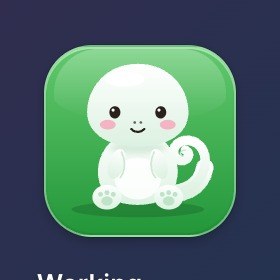
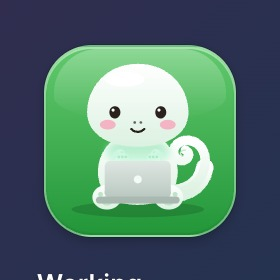
Spec 016: the gecko types at a little laptop, and waits impatiently
Working, it sits at a tiny laptop low in front of it, paws on the keys in turn, nodding and now and then glancing at the screen. Waiting, now and then a slow blink and a burst of foot taps with a small sway, so it says it waits for you without moving all the time.

Changed region(s): [[0.3429, 0.5143, 0.6571, 0.7429]]

diff --git a/client/src/renderer/src/gecko/Gecko.tsx b/client/src/renderer/src/gecko/Gecko.tsx
@@ -42,6 +42,16 @@ function Sole({ x, y }: { readonly x: number; readonly y: number }): React.JSX.E
   )
 }
 
+/** A paw on the laptop's keys, seen over the lid while it types. */
+function Typing({ x, skin }: { readonly x: number; readonly skin: string }): React.JSX.Element {
+  return (
+    <g className="gk-typing">
+      <circle cx={x} cy="64.4" r="3.1" fill="#fff" />
+      {[-1.6, 0, 1.6].map((dx) => <circle key={dx} cx={x + dx} cy="63.2" r="0.6" fill={PAD} />)}
+    </g>
+  )
+}
+
 /** The gecko in the soft, flat style of its reference: white with a mint tint, no outlines, dot eyes, pink blush. Sitting for working, waiting and review; lying on its belly asleep. Each part moves on its own. */
 function Drawing(): React.JSX.Element {
   const id = useId().replace(/[^\w-]/g, '')
@@ -54,6 +64,10 @@ function Drawing(): React.JSX.Element {
         <linearGradient id={`${id}-skin`} x1="0" y1="0" x2="0" y2="1">
           <stop offset="0" stopColor="#ffffff" />
           <stop offset="1" stopColor="#dcf1e1" />
+        </linearGradient>
+        <linearGradient id={`${id}-lid`} x1="0" y1="0" x2="0" y2="1">
+          <stop offset="0" stopColor="#dfe7e3" />
+          <stop offset="1" stopColor="#b9c7c0" />
         </linearGradient>
         <filter id={`${id}-soft`} x="-30%" y="-30%" width="160%" height="160%">
           <feGaussianBlur stdDeviation="1.4" />
@@ -77,16 +91,26 @@ function Drawing(): React.JSX.Element {
                   <g>
                     <ellipse cx="36" cy="81.5" rx="6.6" ry="5.6" fill={skin} />
                     <Sole x={36} y={82} />
-                    <ellipse cx="64" cy="81.5" rx="6.6" ry="5.6" fill={skin} />
-                    <Sole x={64} y={82} />
+                    <g className="gk-heel">
+                      <ellipse cx="64" cy="81.5" rx="6.6" ry="5.6" fill={skin} />
+                      <Sole x={64} y={82} />
+                    </g>
                   </g>
                   <g className="gk-foot gk-foot-l">
                     <ellipse cx="40.4" cy="66.4" rx="3.6" ry="7" fill={skin} transform="rotate(18 40.4 66.4)" />
                     <path d="M42.6 61 C 44.6 65, 44.4 70, 42 72.6" fill="none" stroke="#cfe8d5" strokeWidth="0.8" strokeLinecap="round" />
+                    <Typing x={43} skin={skin} />
                   </g>
                   <g className="gk-foot gk-foot-r">
                     <ellipse cx="59.6" cy="66.4" rx="3.6" ry="7" fill={skin} transform="rotate(-18 59.6 66.4)" />
                     <path d="M57.4 61 C 55.4 65, 55.6 70, 58 72.6" fill="none" stroke="#cfe8d5" strokeWidth="0.8" strokeLinecap="round" />
+                    <Typing x={57} skin={skin} />
+                  </g>
+                  <g className="gk-laptop">
+                    <ellipse cx="50" cy="61" rx="15" ry="6" fill="#9ff0c4" opacity="0.5" filter={soft} />
+                    <rect x="35" y="65" width="30" height="17" rx="2.6" fill={`url(#${id}-lid)`} />
+                    <circle cx="50" cy="73.4" r="1.8" fill="#f2fbf4" />
+                    <rect x="31" y="81.2" width="38" height="3.2" rx="1.6" fill="#a9b8b0" />
                   </g>
                   <g className="gk-head-pose">
                     <g className="gk-head-look">
@@ -148,6 +172,7 @@ export function GeckoPanel({
   moving = true,
   blinking = false,
   tilting = false,
+  tapping = false,
   hovering = false,
   pressing = false,
   look = { x: 0, y: 0 },
@@ -158,6 +183,8 @@ export function GeckoPanel({
   readonly moving?: boolean
   readonly blinking?: boolean
   readonly tilting?: boolean
+  /** Waiting: a burst of impatient taps of one foot. */
+  readonly tapping?: boolean
   readonly hovering?: boolean
   readonly pressing?: boolean
   readonly look?: Look
@@ -171,6 +198,7 @@ export function GeckoPanel({
     moving ? '' : 'gecko-still',
     blinking ? 'gecko-blink' : '',
     tilting ? 'gecko-tilt' : '',
+    tapping ? 'gecko-tapping' : '',
     hovering ? 'gecko-hover' : '',
     pressing ? 'gecko-press' : '',
   ].filter((one) => one !== '')
@@ -205,10 +233,11 @@ function useSeen(): boolean {
   return seen
 }
 
-/** A blink now and then while its eyes are open, sometimes with a tilt of the head: one short timer at a time, none while asleep or not seen. */
-function useFidget(awake: boolean): { readonly blinking: boolean; readonly tilting: boolean } {
+/** A blink now and then while its eyes are open, sometimes with a tilt of the head; waiting, a slow blink and now and then a burst of impatient foot taps. One short timer at a time, none while asleep or not seen. */
+function useFidget(awake: boolean, waiting: boolean): { readonly blinking: boolean; readonly tilting: boolean; readonly tapping: boolean } {
   const [blinking, setBlinking] = useState(false)
   const [tilting, setTilting] = useState(false)
+  const [tapping, setTapping] = useState(false)
   useEffect(() => {
     if (!awake) return
     let timer: ReturnType<typeof setTimeout>
@@ -216,16 +245,19 @@ function useFidget(awake: boolean): { readonly blinking: boolean; readonly tilti
       timer = setTimeout(
         () => {
           if (still()) return next()
-          const tilt = Math.random() < 0.35
+          const tilt = !waiting && Math.random() < 0.35
+          const tap = waiting && Math.random() < 0.6
           setBlinking(true)
           setTilting(tilt)
+          setTapping(tap)
           timer = setTimeout(() => {
             setBlinking(false)
             timer = setTimeout(() => {
               setTilting(false)
+              setTapping(false)
               next()
-            }, tilt ? 900 : 0)
-          }, 160)
+            }, tap ? 1000 : tilt ? 900 : 0)
+          }, waiting ? 420 : 160)
         },
         2500 + Math.random() * 4000,
       )
@@ -235,9 +267,10 @@ function useFidget(awake: boolean): { readonly blinking: boolean; readonly tilti
       clearTimeout(timer)
       setBlinking(false)
       setTilting(false)
+      setTapping(false)
     }
-  }, [awake])
-  return { blinking, tilting }
+  }, [awake, waiting])
+  return { blinking, tilting, tapping }
 }
 
 /** Where the cursor is from the gecko's eyes, as a look: the direction, weaker when it is close. */
@@ -258,7 +291,7 @@ export function Gecko(): React.JSX.Element | null {
   const [pressing, setPressing] = useState(false)
   const [look, setLook] = useState<Look>({ x: 0, y: 0 })
   const seen = useSeen()
-  const { blinking, tilting } = useFidget(seen && view !== undefined && view.pose !== 'asleep')
+  const { blinking, tilting, tapping } = useFidget(seen && view !== undefined && view.pose !== 'asleep', view?.pose === 'waiting')
   const held = useRef<{ x: number; y: number; left: number; top: number; moved: boolean } | undefined>(undefined)
 
   useEffect(() => {
@@ -335,6 +368,7 @@ export function Gecko(): React.JSX.Element | null {
         moving={seen}
         blinking={blinking}
         tilting={tilting}
+        tapping={tapping}
         hovering={hovering}
         pressing={pressing}
         look={look}

diff --git a/client/src/renderer/src/styles.css b/client/src/renderer/src/styles.css
@@ -12414,7 +12414,27 @@ button.manager-step-head:hover > svg {
   animation: gk-peek-shut 1.8s ease-in-out;
 }
 
-/* Working: sitting, its front paws tapping in turn as if typing, nodding to the beat, the tail swaying behind. */
+/* Working: at a little laptop in front of it, its paws on the keys in turn, nodding to the beat, now and then glancing down at the screen, the tail swaying behind. */
+.gk-laptop,
+.gk-typing {
+  opacity: 0;
+  transition: opacity 300ms;
+}
+
+.gecko-working .gk-laptop,
+.gecko-working .gk-typing {
+  opacity: 1;
+}
+
+.gecko-working.gecko-hop .gk-laptop,
+.gecko-working.gecko-hop .gk-typing {
+  opacity: 0;
+}
+
+.gecko-working .gk-head {
+  animation: gk-glance 4.8s ease-in-out infinite;
+}
+
 .gecko-working .gk-foot-l,
 .gecko-working .gk-foot-r {
   animation: gk-tap 560ms ease-in-out infinite;
@@ -12446,11 +12466,29 @@ button.manager-step-head:hover > svg {
 }
 
 .gecko-waiting .gk-bob {
-  animation: gk-bounce 1.4s var(--gk-spring) 3;
+  animation: gk-bounce 1.4s var(--gk-spring);
 }
 
-.gecko-waiting .gk-tail {
-  animation: gk-swing 1.4s ease-in-out 200ms 3;
+/* Now and then, impatient: one foot taps three times while it sways and the tail swings. */
+.gk-art .gk-heel {
+  transform-origin: 60px 86px;
+}
+
+.gecko-waiting.gecko-tapping .gk-heel {
+  animation: gk-heel 330ms ease-in-out 3;
+}
+
+.gecko-waiting.gecko-tapping .gk-sit {
+  animation: gk-sway 1s ease-in-out;
+}
+
+.gecko-waiting.gecko-tapping .gk-tail {
+  animation: gk-swing 1s ease-in-out 120ms;
+}
+
+/* Its blinks are slow while it waits. */
+.gecko-waiting .gk-art .gk-dot {
+  transition-duration: 220ms;
 }
 
 /* Review: a happy hop with its paws up and happy eyes, squashed on landing, the tail flicking. */
@@ -12570,6 +12608,42 @@ button.manager-step-head:hover > svg {
   }
   25% {
     transform: translateY(-2.5px) rotate(-8deg);
+  }
+}
+
+@keyframes gk-glance {
+  0%,
+  62%,
+  92%,
+  100% {
+    transform: none;
+  }
+  70%,
+  84% {
+    transform: translateY(1.6px) rotate(-3deg);
+  }
+}
+
+@keyframes gk-heel {
+  0%,
+  100% {
+    transform: none;
+  }
+  50% {
+    transform: rotate(-16deg);
+  }
+}
+
+@keyframes gk-sway {
+  0%,
+  100% {
+    transform: none;
+  }
+  30% {
+    transform: rotate(-2.5deg);
+  }
+  70% {
+    transform: rotate(2.5deg);
   }
 }
 

diff --git a/client/src/renderer/src/gecko-preview.tsx b/client/src/renderer/src/gecko-preview.tsx
@@ -71,6 +71,7 @@ function Live(): React.JSX.Element {
   const [at, setAt] = useState(0)
   const [hopping, setHopping] = useState(false)
   const [blinking, setBlinking] = useState(false)
+  const [tapping, setTapping] = useState(false)
   const [hovering, setHovering] = useState(false)
   const [pressing, setPressing] = useState(false)
   const [look, setLook] = useState({ x: 0, y: 0 })
@@ -82,7 +83,7 @@ function Live(): React.JSX.Element {
       setAt(now)
       setHopping(cycle[now] === 'review')
     }, 3500)
-    const blink = setInterval(() => { setBlinking(true); setTimeout(() => setBlinking(false), 160) }, 2300)
+    const blink = setInterval(() => { setBlinking(true); setTapping(true); setTimeout(() => setBlinking(false), 300); setTimeout(() => setTapping(false), 1200) }, 2300)
     const follow = (event: MouseEvent): void => {
       const box = held.current?.getBoundingClientRect()
       if (box === undefined) return
@@ -98,7 +99,7 @@ function Live(): React.JSX.Element {
   const state = cycle[at] ?? 'asleep'
   const pose = state === 'review' ? 'working' : state
   return <div ref={held} className="gecko-float gecko-live" onPointerEnter={() => setHovering(true)} onPointerLeave={() => setHovering(false)} onClick={() => { setPressing(true); setTimeout(() => setPressing(false), 170) }}>
-    <GeckoPanel pose={pose} count={state === 'waiting' ? 2 : 0} hopping={hopping} blinking={blinking && pose !== 'asleep'} hovering={hovering} pressing={pressing} look={look} onHopped={() => setHopping(false)} />
+    <GeckoPanel pose={pose} count={state === 'waiting' ? 2 : 0} hopping={hopping} blinking={blinking && pose !== 'asleep'} tapping={tapping && pose === 'waiting'} hovering={hovering} pressing={pressing} look={look} onHopped={() => setHopping(false)} />
   </div>
 }
 

diff --git a/docs/design/gecko.md b/docs/design/gecko.md
@@ -11,7 +11,7 @@ Alex chose **C, the glass tile**, on 2026-10-28, and later the same day moved th
 - **Placement.** Its own window: frameless, transparent, always on top (`floating` level), on every desktop (`setVisibleOnAllWorkspaces` without the full screen spaces, which would take GeckIt's Dock icon away), not in the Dock, the taskbar or the window switcher (`skipTaskbar`, `focusable: false`), never taking the keyboard, clicks accepted without activating (`acceptFirstMouse`). 108 px square: a 96 px tile plus room for its shadow. First at the top right of the main display, 24 px in; dragged, the position is kept in `geckoBounds` in settings. Switched off or with the screen locked there is no window at all.
 - **Tile, not glass.** The gecko sits on the app icon's green tile (`#62c96d` to `#23963a`, 24 px corners, a soft top shine, a light edge and a small shadow), drawn by the page the same on every system and in light and dark. The glass panel was tried with this drawing too and dropped: a white gecko on light glass nearly disappears in light mode and only reads on dark, while on the green tile it reads in both and is the reference's own look. macOS vibrancy is no longer used, since an opaque tile covers it.
 - **The gecko.** Drawn in `client/src/renderer/src/gecko/Gecko.tsx` as one SVG of parts, flat and soft as Mochi is: no outlines, white with a light mint tint (`#ffffff` to `#dcf1e1`), a big round head a little wider than tall with a highlight, two tiny nostril dots, small solid dark dot eyes set wide (`#2b211c`) with a white glint, pink oval blush (`#f6a8bc`), a tiny smile, a round body with a white belly, short front paws, back feet turned to the person with a big pad and three toe pads in darker mint (`#bfe3c8`), a tail ending in a spiral curl, a soft green shadow under it. Faint mint lines separate the paws from the body. The mouth has three shapes (smile, "o", happy), each eye three (the dot, the shut arc, the happy arc). Asleep it is a second drawing of the same gecko lying on its belly, chin on its front paws, cross-faded with the sitting one.
-- **Motion.** CSS keyframes and transitions on the parts' transforms and opacity only, each part turning about its own joint: springy easing (`cubic-bezier(0.34, 1.56, 0.64, 1)`), squash and stretch on the hop, the press and the bounce, the tail a beat behind. Working: the front paws tap in turn as if typing (560 ms), the head nods to the beat, the tail sways, without end. Asleep: lying down, eyes shut arcs; the back rises and falls eight times (4.2 s each) and the tail tip twitches four times, then still. Waiting: the head up and 3% larger, the "o" mouth, three bounces of 1.4 s; the orange count pops in. Review: a 0.9 s hop 6 units high with paws up, happy arc eyes and mouth, a squash on take-off and landing, the shadow shrinking under it, the tail flicking. Blinks every 2.5 to 6.5 s (the dots flatten), a third with an 8 degree head tilt. Hover: looks straight out and wiggles; asleep, one eye opens and shuts. Press: a 170 ms squash, then GeckIt comes forward.
+- **Motion.** CSS keyframes and transitions on the parts' transforms and opacity only, each part turning about its own joint: springy easing (`cubic-bezier(0.34, 1.56, 0.64, 1)`), squash and stretch on the hop, the press and the bounce, the tail a beat behind. Working: it sits at a tiny light grey laptop placed low in front of it, a mint glow from the screen on its chest, its paws on the keys over the lid tapping in turn (560 ms), the head nodding to the beat and every 4.8 s glancing down at the screen, the tail swaying, without end. Asleep: lying down, eyes shut arcs; the back rises and falls eight times (4.2 s each) and the tail tip twitches four times, then still. Waiting: the head up and 3% larger, the "o" mouth, one bounce as it sits up; the orange count pops in. Then, at the blink timer's moments (every 2.5 to 6.5 s), a slow blink and, six times in ten, a burst of impatience: one back foot taps three times while it sways and the tail swings, about a second, then it is still again. Review: a 0.9 s hop 6 units high with paws up, happy arc eyes and mouth, a squash on take-off and landing, the shadow shrinking under it, the tail flicking. Blinks every 2.5 to 6.5 s (the dots flatten), a third with an 8 degree head tilt. Hover: looks straight out and wiggles; asleep, one eye opens and shuts. Press: a 170 ms squash, then GeckIt comes forward.
 - **The eyes follow the cursor.** Main reads `screen.getCursorScreenPoint()` ten times a second while the cursor moves and once a second after it has rested two seconds, and tells the panel only when it moved; the page turns that into a direction from its eyes, weaker within 240 px, which moves the dot eyes inside the face up to 2 units and the head up to 4 degrees.
 - **Reduced motion and not seen.** Reduced motion keeps the still pose of each state (no keyframes, no hop, no blinks, no wiggle or squash); the eyes still follow. A hidden page holds still too.
 - **Tray.** Unchanged from the tile build: `client/assets/tray{Asleep,Working,Waiting}Template.png` and `@2x`, rendered from `tray-c-*.svg` at 18 and 36 px. macOS only; Windows and Linux keep the colour app icon. Switched off, the tray goes back to `trayTemplate.png`. Seen composed on a [light bar](gecko/build-c-tray-light.jpg) and a [dark bar](gecko/build-c-tray-dark.jpg), not in the real menu bar.

diff --git a/specs/016-gecko-character/ux.md b/specs/016-gecko-character/ux.md
@@ -23,8 +23,8 @@ Today the person has to read the board's cards to learn whether anything needs t
 | State | When | What the person sees | What they do |
 |---|---|---|---|
 | asleep | nothing working, nothing waiting | lying on its belly, chin on its front paws, eyes shut arcs; the back rises and falls a few times and the tail tip twitches, then it lies still | nothing; it is safe to look away |
-| working | at least one working, none waiting | sitting, front paws tapping in turn as if typing, the head nodding to the beat, the tail swaying behind | nothing; Claude is busy |
-| waiting | at least one asking, finished and unread, or a command after ! waiting to be typed into | it sits up and looks straight at the person with an \"o\" mouth, and bounces gently three times; the orange count pops in from 2 | press the gecko to open the conversation that has waited longest |
+| working | at least one working, none waiting | sitting at a tiny laptop in front of it, paws tapping the keys in turn, the head nodding, now and then glancing down at the screen, the tail swaying behind | nothing; Claude is busy |
+| waiting | at least one asking, finished and unread, or a command after ! waiting to be typed into | it sits up and looks straight at the person with an \"o\" mouth; now and then a slow blink and a burst of impatient foot taps with a small sway; the orange count pops in from 2 | press the gecko to open the conversation that has waited longest |
 | review | a card has just moved to In review | a happy hop of about 0.9 s with paws up and happy arc eyes, squashed on landing, the tail flicking; then the state below returns | look at In review when convenient |
 
 Waiting wins over working; review is a one-off on top of whichever of the other three holds.
@@ -104,7 +104,7 @@ A card moving to In review while something waits does not interrupt waiting: the
 - Count shown from 2: one waiting conversation needs no number, the pose says it.
 - Blinks every 2.5 to 6.5 s, a third of them with a head tilt of 0.9 s.
 - The cursor is read by main ten times a second while it moves, once a second after it has rested two seconds, and never without a panel; the panel is told only when it moved.
-- What runs without end: only the working state's bob, taps and tail. Asleep breathes eight times (about 34 s) and waiting bounces three times, then they hold still apart from blinks, so a panel left sleeping or waiting all day costs nothing (measured below).
+- What runs without end: only the working state's typing, nod, glance and tail. Asleep breathes eight times (about 34 s) and waiting moves only in short bursts at the blink timer's moments (a slow blink, sometimes a second of foot taps), then holds still, so a panel left sleeping or waiting all day costs nothing (measured below).
 
 ## Wording
 
